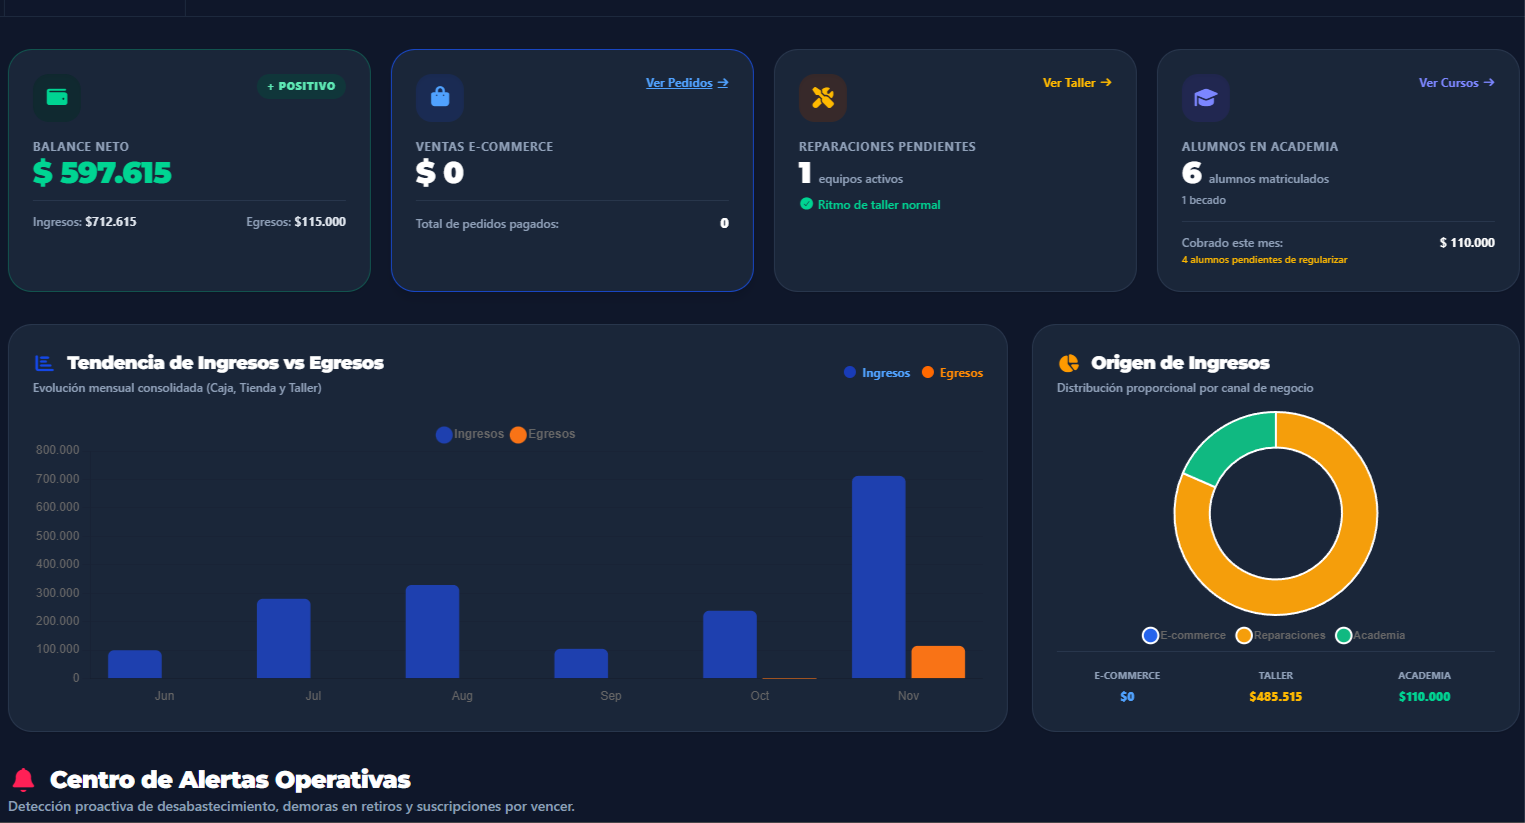
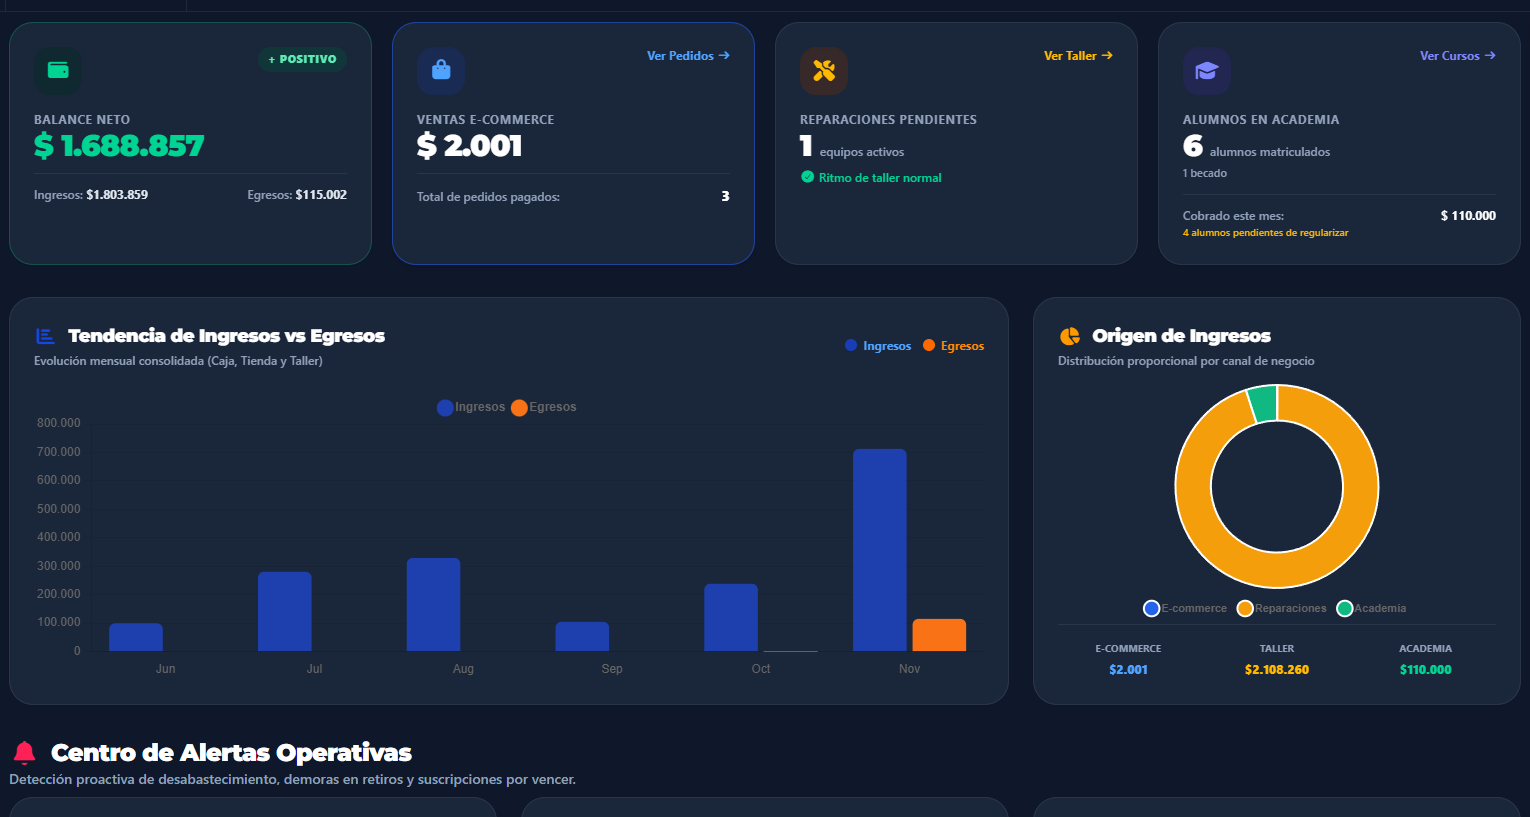
arecx

diff --git a/src/app/public/home/public-home.content.ts b/src/app/public/home/public-home.content.ts
@@ -205,7 +205,7 @@ export const HOME_CONTENT: Record<'en' | 'es', HomeContent> = {
           title: 'ZARX — C4ISR Civil Defense & Emergency Response System',
           description:
             'Tactical platform that turns crisis uncertainty into actionable information. ZARX integrates real-time geolocation, secure communication and critical infrastructure monitoring (fires, IoT) in a single interface. Built to work even when the network fails (offline-first), it enables civil defense and security forces to coordinate resources and save lives with precise data in seconds, not hours.',
-          image: 'assets/img/gsm/zarx.png',
+          image: 'assets/img/gsm/zarx.webp',
           tags: ['C4ISR', 'Offline-First', 'Angular', 'Supabase'],
           link: '/portfolio',
         },
@@ -213,7 +213,7 @@ export const HOME_CONTENT: Record<'en' | 'es', HomeContent> = {
           title: 'Business Intelligence Dashboard (ERP)',
           description:
             'Unified command center that centralizes operations, finances and customer service in a single screen. Designed to scale businesses with multiple branches, unifying E-commerce, Technical Service, Academy and Cash in real time with actionable metrics.',
-          image: 'assets/img/projects/panel.png',
+          image: 'assets/img/projects/are.webp',
           tags: ['Java', 'Spring Boot', 'Angular'],
           link: '/portfolio',
         },
